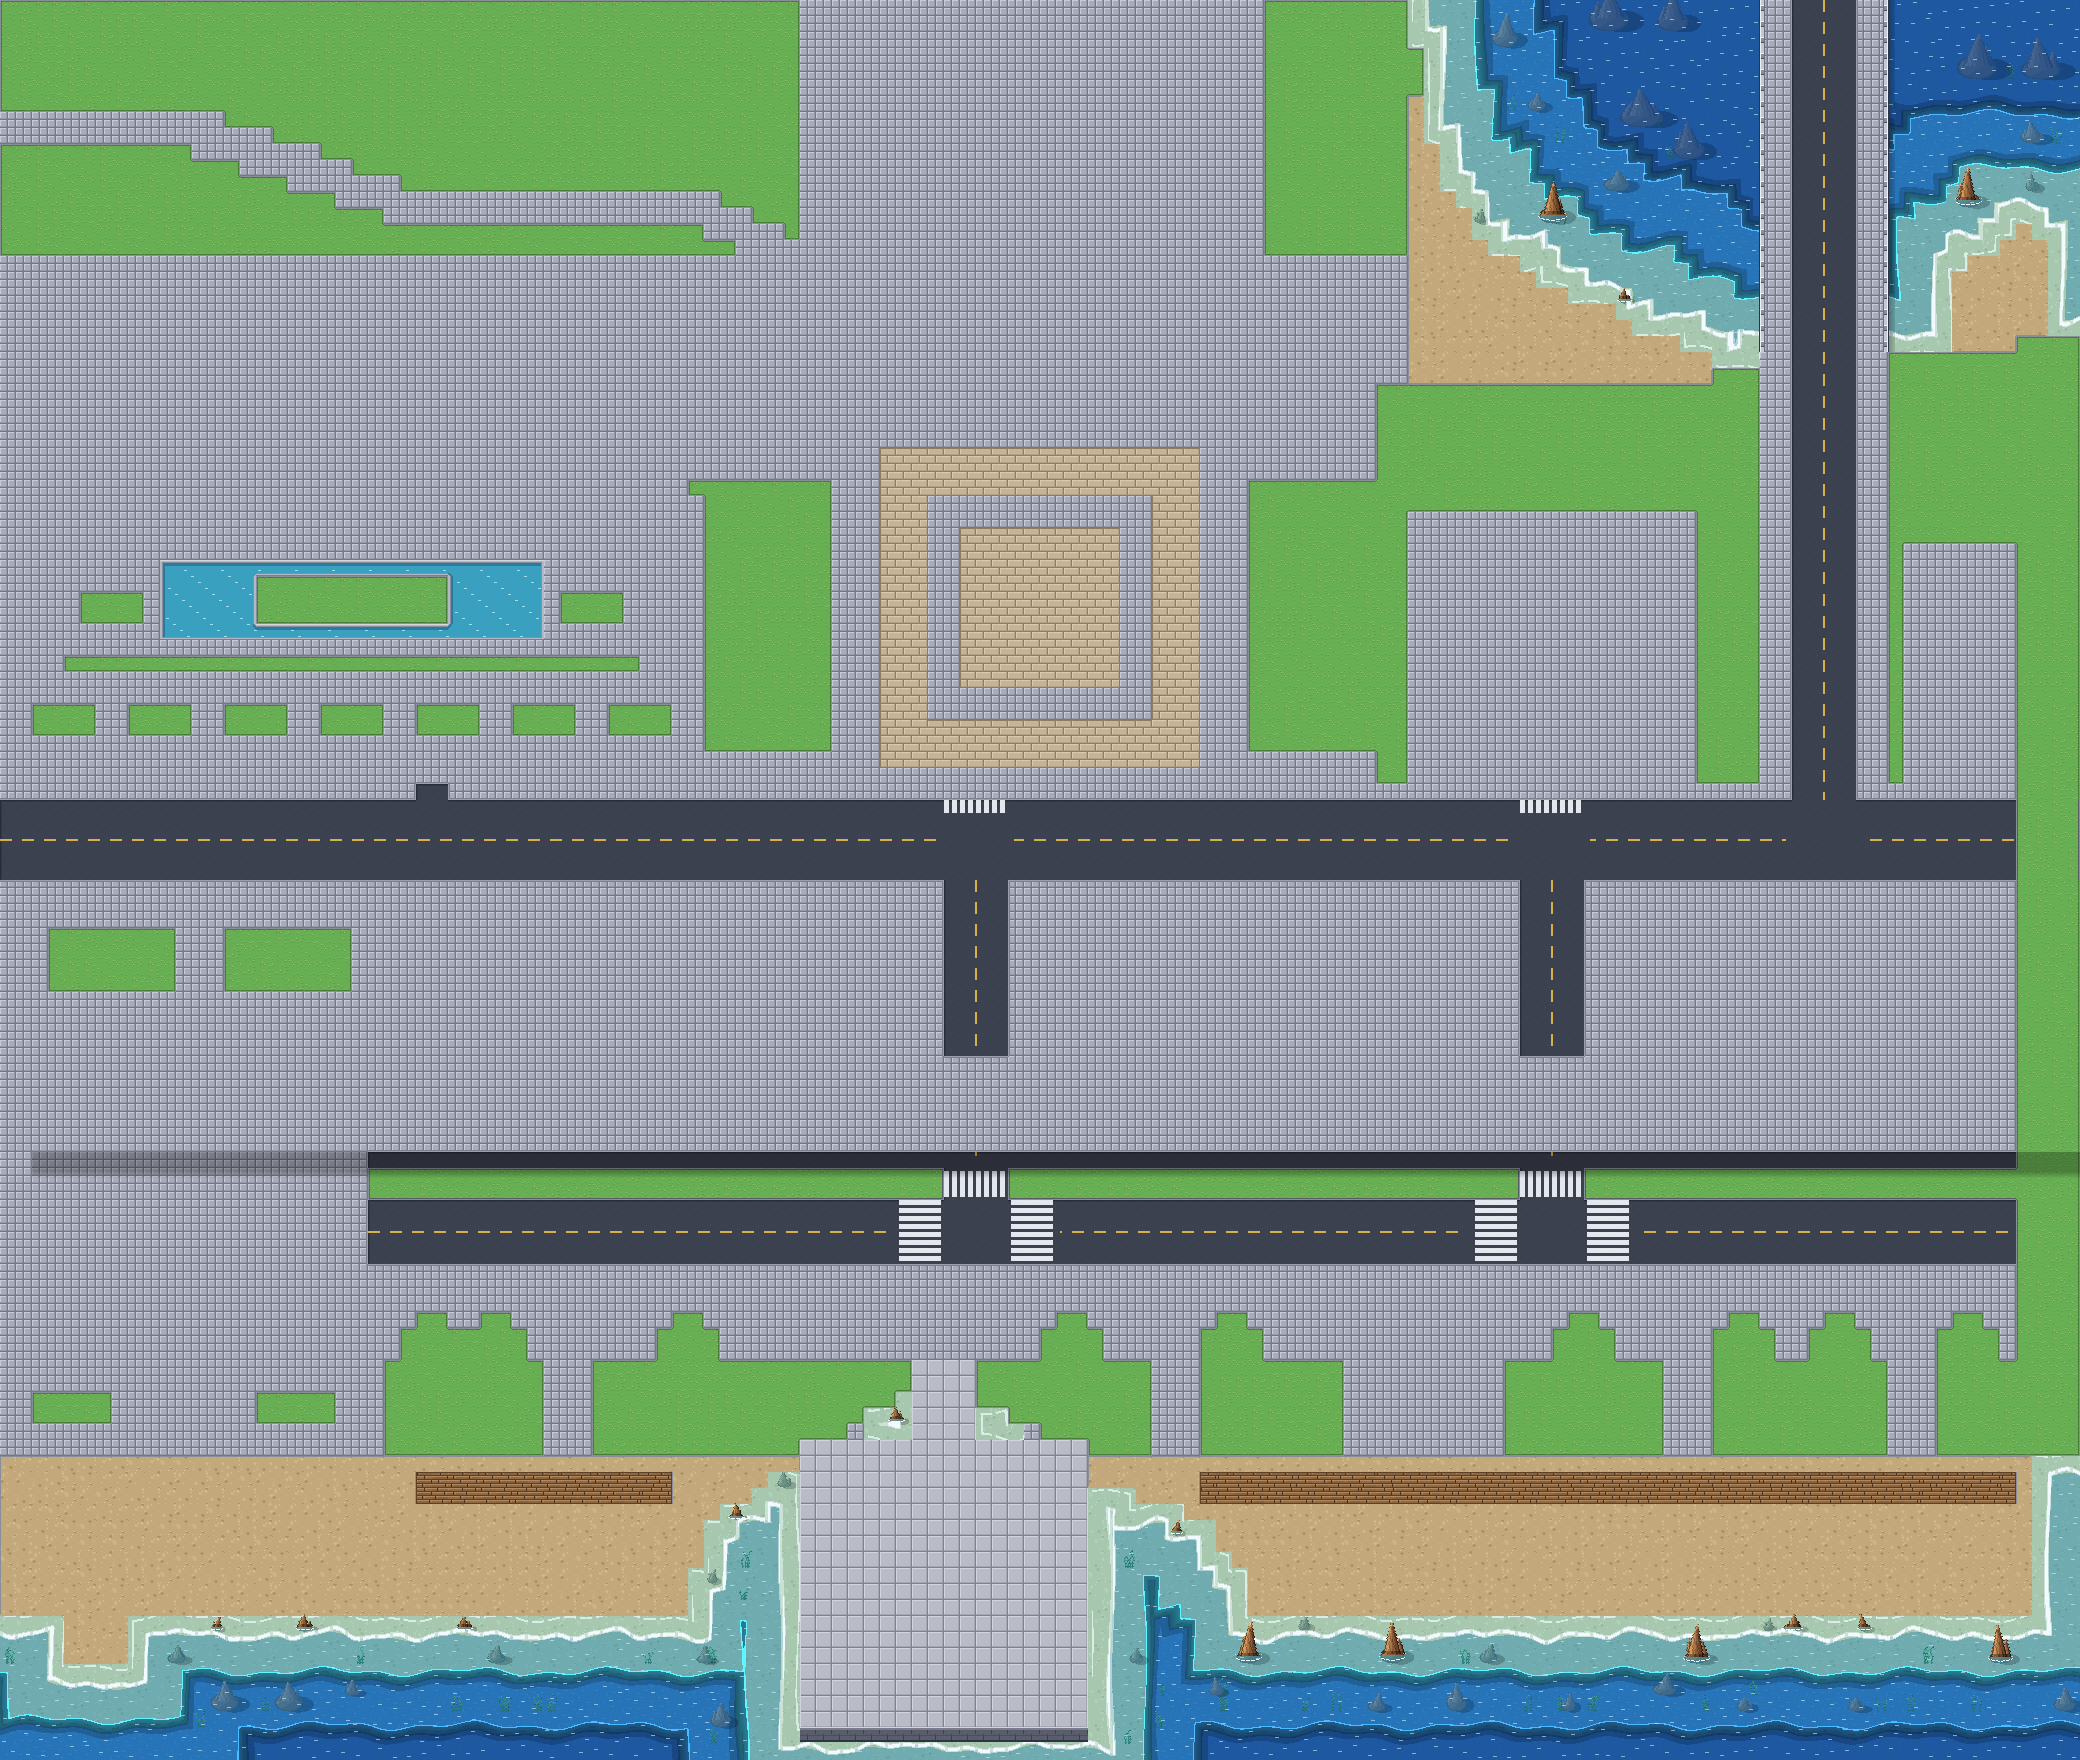
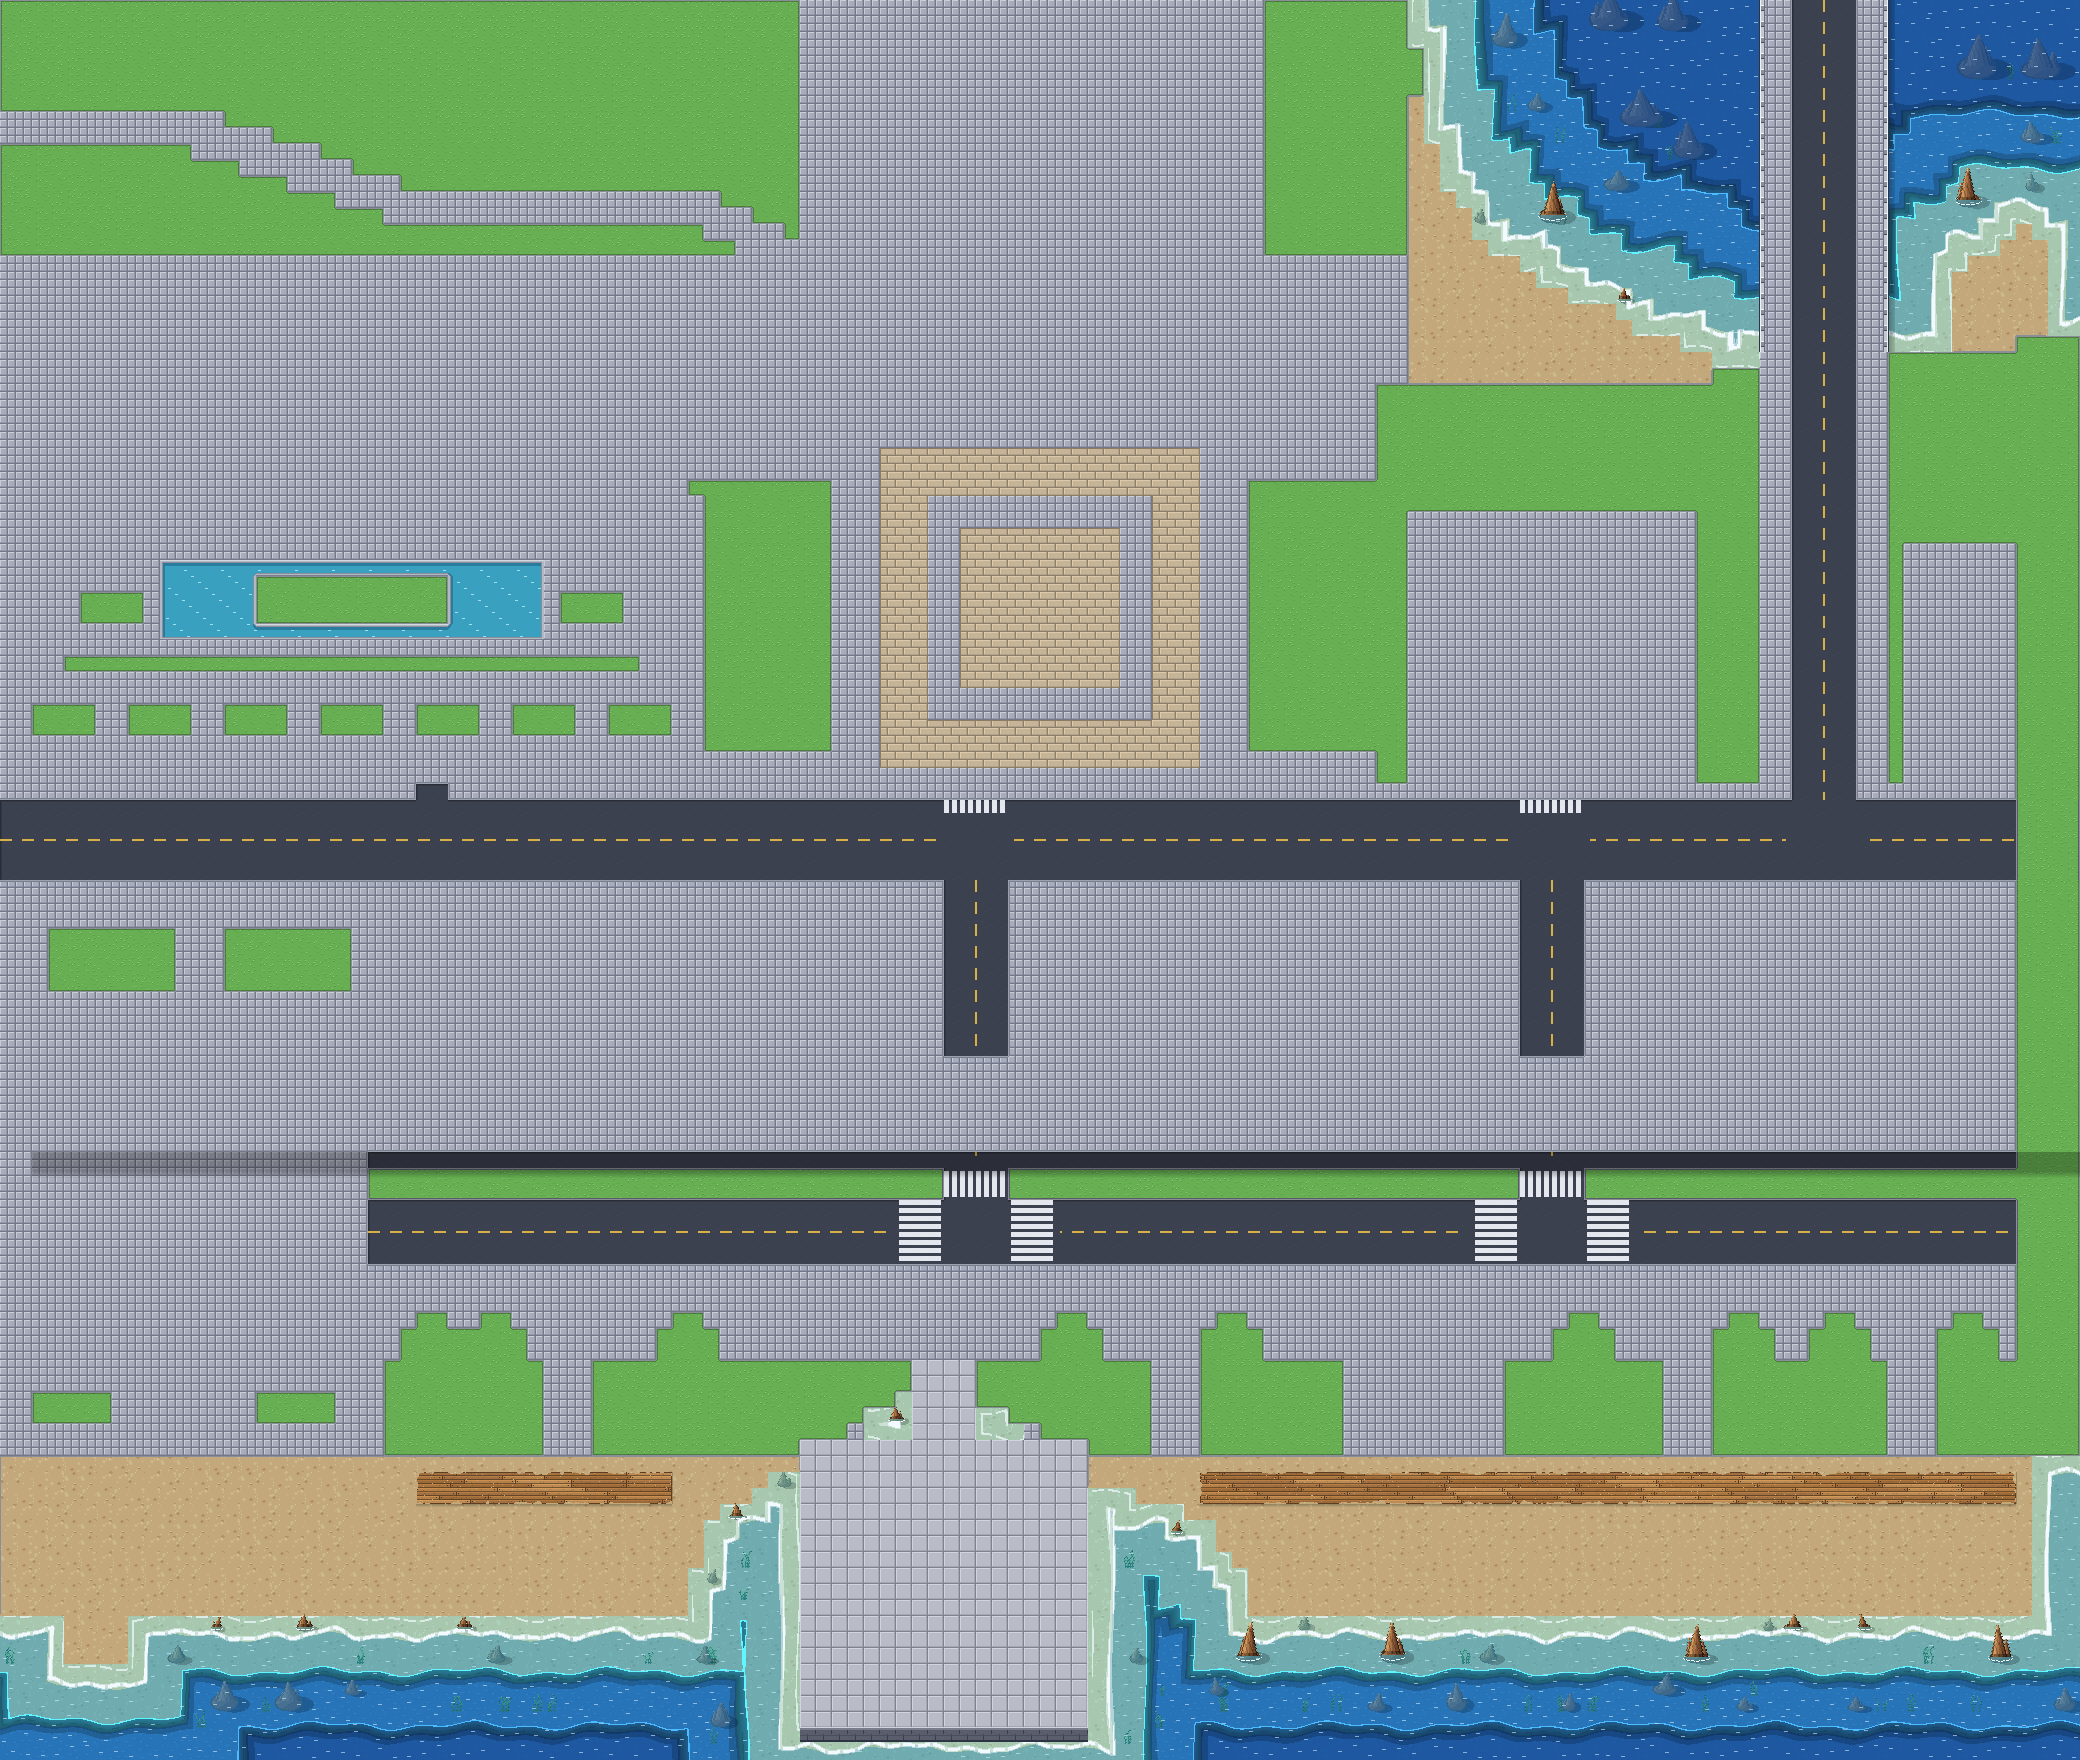
K30: Holzpromenade am Strand aus langen Planken mit Sandverwehungen als Uebergang
Claude-Session: https://claude.ai/code/session_01SaoYHKhnro4LFcPJqjaPsq

Changed region(s): [[0.5625, 0.8125, 0.9688, 0.875], [0.1875, 0.8125, 0.3125, 0.875]]

diff --git a/tools/karte30_bauen.py b/tools/karte30_bauen.py
@@ -153,6 +153,63 @@ def hochbahn(img, lay, zug_sp=None):
     return img
 
 
+def holzsteg(a, holz, sand_tex, seed=30):
+    """Holzpromenade auf dem Strand (Nutzer: Holz statt Steinoptik): lange waagerechte Planken (4 px hoch, 40-90 px
+    lang, versetzte Stoesse), Lichtkante oben, dunkle Fuge unten, Naegel an den Stoessen, feine Maserung; dunkle
+    Randbohle; Schatten auf dem Sand darunter; Sand weht unregelmaessig ueber die Raender (Uebergang)."""
+    rs = np.random.RandomState(seed)
+    ys, xs = np.nonzero(holz)
+    if not len(ys):
+        return
+    y0, y1, x0, x1 = ys.min(), ys.max(), xs.min(), xs.max()
+    HOLZ = [np.array(H(c), np.float32) for c in ('#a8743e', '#b48048', '#9c6a38', '#bc8a52', '#a27040')]
+    for yy in range(y0, y1 + 1, 4):
+        x = x0 - rs.randint(0, 60)
+        while x <= x1:
+            l = rs.randint(40, 91)
+            c = HOLZ[rs.randint(len(HOLZ))]
+            for dy in range(4):
+                Y = yy + dy
+                if Y > y1:
+                    break
+                for X in range(max(x, x0), min(x + l, x1 + 1)):
+                    if not holz[Y, X]:
+                        continue
+                    f = c * (1.12 if dy == 0 else 1.0 if dy < 3 else 0.62)
+                    if dy in (1, 2) and (X * 7 + Y * 13 + rs.randint(0, 3)) % 23 == 0:
+                        f = c * 0.82                                          # Maserung
+                    a[Y, X] = np.clip(f, 0, 255).astype(np.uint8)
+                if 0 <= x - 1 and x0 <= x <= x1 and holz[Y, x]:
+                    a[Y, x] = H('#5a3c22')                                    # Stoss
+            for nx in (x + 2, x + l - 3):                                     # Naegel
+                if x0 <= nx <= x1 and holz[yy + 1, nx]:
+                    a[yy + 1, nx] = H('#4a3320')
+            x += l
+    rand = kontur(holz)
+    a[rand] = H('#5e3e22')
+    unten = holz & ~np.roll(holz, -1, 0)
+    for d in (1, 2, 3):                                                       # Schatten auf dem Sand
+        m = np.roll(unten, d, 0) & ~holz
+        dunkeln(a, m, 0.72 + d * 0.07)
+    m = np.roll(holz & ~np.roll(holz, -1, 1), 1, 1) & ~holz                   # rechte Seite
+    dunkeln(a, m, 0.8)
+    dist = np.zeros(holz.shape, np.float32)                                   # Sanduebergang ueber die Raender
+    innen = holz.copy()
+    for d in range(1, 6):
+        innen = innen & np.roll(innen, 1, 0) & np.roll(innen, -1, 0) & np.roll(innen, 1, 1) & np.roll(innen, -1, 1)
+        dist[holz & ~innen & (dist == 0)] = d
+    dist[innen] = 6
+    roh = (np.random.RandomState(seed + 1).rand(*holz.shape) * 255).astype(np.uint8)
+    rausch = np.array(Image.fromarray(roh).filter(ImageFilter.GaussianBlur(1.6)), np.float32)
+    rausch = (rausch - rausch.min()) / max(1.0, rausch.max() - rausch.min())     # weiche Flecken statt Einzelpixel
+    yy_, xx_ = np.mgrid[0:holz.shape[0], 0:holz.shape[1]]
+    welle = 0.5 + 0.5 * np.sin(xx_ / 9.0 + np.sin(xx_ / 23.0) * 2)              # Verwehungen ungleichmaessig
+    sandig = holz & (rausch < np.clip((4.5 - dist) / 4.5, 0, 1) * (0.25 + 0.5 * welle) + 0.18)
+    sandig &= dist < 5
+    sandig |= holz & (np.random.RandomState(seed + 2).rand(*holz.shape) < 0.008)                                         # einzelne Koerner auf den Planken
+    a[sandig] = sand_tex[sandig]
+
+
 def schatten_hochbahn(a, lay, boden):
     hb = lay['hochbahn']
     y0 = (hb['y1'] + 1) * T
@@ -208,13 +265,13 @@ def bauen(frame=None, speichern=True):
     k18.rasen_kanten(a, rasen)
     sand = gross(kl == 'd')                                           # Sand: Steinkante nur zur Promenade hin
     nahw = np.array(Image.fromarray((wasser * 255).astype(np.uint8)).filter(ImageFilter.MaxFilter(5))) > 0
-    rand_s = kontur(sand) & ~nahw & ~gross(kl == 'b')
+    rand_s = kontur(sand) & ~nahw & ~gross(kl == 'b') & ~(np.array(Image.fromarray((gross(kl == 'b') * 255).astype(np.uint8)).filter(ImageFilter.MaxFilter(7))) > 0)
     rand_s &= ~(np.roll(gross(kl == 'b'), 1, 0) | np.roll(gross(kl == 'b'), -1, 0))
     a[rand_s] = H('#8a8e98')
     pr = kontur(pm)                                                   # Sandstein-Rahmen: feine Fugenkante
     a[pr] = H('#8c7c62')
-    holz = gross(kl == 'b')                                           # Holzpromenade: dunkle Kante ringsum
-    a[kontur(holz)] = H('#5a4228')
+    holz = gross(kl == 'b')                                           # Holzpromenade: Planken + Sanduebergang
+    holzsteg(a, holz, k18.textur('d', cols, rows))
     becken(a, gross(kl == 'o'), frame, lvl)
     pier = gross(kl == 'v')
     k18.kaimauer(a, wasser, pier, lvl)
